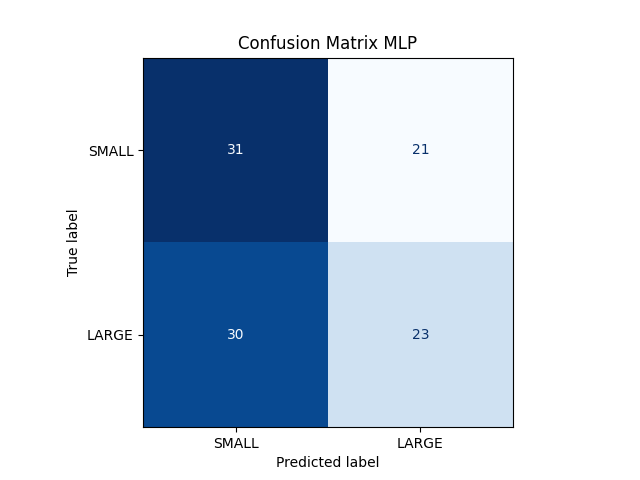
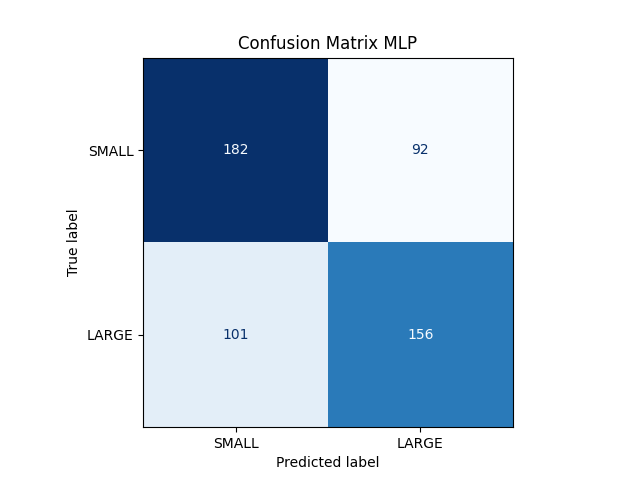
update

Changed region(s): [[0.2188, 0.5, 0.8125, 0.9062], [0.3438, 0.2812, 0.375, 0.3438]]

diff --git a/SW/size/test_accu.py b/SW/size/test_accu.py
@@ -15,14 +15,16 @@ def test_model():
 
     # Data parameters
     input_period = 42
-    input_period_weeks =10
+    input_period_reg = 10
     training_window = 10
 
     # Process data
-    X, X_reg, y, y_reg = get_processed_data(features, target_prices, input_period, input_period_weeks, training_window)
+    X, X_reg, y, y_reg = get_processed_data(features, target_prices, input_period, input_period_reg, training_window)
 
-    train_indices, test_indices, _, _ = train_test_split(range(len(y)), y, test_size=0.2, shuffle=False, random_state=1)
+    train_indices, test_indices, _, _ = train_test_split(range(len(y)), y, test_size=0.3, shuffle=False, random_state=1)
     X_train, X_train_reg, y_train, y_train_reg, X_test, X_test_reg, y_test = X[train_indices], X_reg[train_indices], y[train_indices], y_reg[train_indices], X[test_indices], X_reg[test_indices], y[test_indices]
+    print('Number of train sample', len(X_train))
+    print('Number of test sample', len(X_test))
 
     X_mean = X_train.mean(dim=[0, 1], keepdim=True)
     X_std = X_train.std(dim=[0, 1], keepdim=True)
@@ -41,13 +43,12 @@ def test_model():
     class_count_test = np.unique(y_test.cpu(), axis=0, return_counts=True)[1]
     weights_train = torch.tensor(class_count_train / sum(class_count_train))
     weights_test = torch.tensor(class_count_test / sum(class_count_test))
-
-    print('Allocation of best returns', weights_train.cpu().numpy())
-    print('Allocation of best returns', weights_test.cpu().numpy())
+    print('Allocation of best returns in train set :', weights_train.cpu().numpy())
+    print('Allocation of best returns in test set :', weights_test.cpu().numpy())
 
     device = torch.device("cuda" if torch.cuda.is_available() else "cpu")
-    print('Number of train sample', len(X_train))
-    print('Number of test sample', len(X_test))
+    print('Device available :', device)
+    
     X_train = X_train.to(device)
     X_train_reg = X_train_reg.to(device)
     y_train = y_train.to(device)
@@ -55,15 +56,12 @@ def test_model():
     X_test = X_test.to(device)
     y_test = y_test.to(device)
 
-    eta_mlp = 1e-3
-    eta_convnet = 1e-4
-    eta_lstm = 1e-3
-    eta_lstm_siam = 5e-4
-
-    weight_decay = 5e-5
-    dropout = 0.1
-    batch_size = 50
+    eta = 5e-4
+    weight_decay = 1e-5
+    dropout = 0.2
+    batch_size = 30
     gamma = 0.3
+    print(f'parameters of ML model : \n learning_rate = {eta}, weight_decay = {weight_decay}, dropout = {dropout}, batch_size = {batch_size}, gamma = {gamma}')
 
     nb_epochs = 100
 
@@ -75,19 +73,15 @@ def test_model():
     dim1, dim2 = X.size(1), X.size(2)
 
     if model_name == 'MLP':
-        eta = eta_mlp
         model = MLP(dim1, dim2, pdrop=dropout)
 
     elif model_name == 'ConvNet':
-        eta = eta_convnet
         model = ConvNet(dim1, dim2, pdrop=dropout)
 
     elif model_name == 'LSTM':
-        eta = eta_lstm
         model = LSTM(input_size=dim2, output_size=y.size(1), device=device, pdrop=dropout)
 
     elif model_name == 'SiameseLSTM':
-        eta = eta_lstm_siam
         model = SiameseLSTM(input_size=dim2, output_size=X_reg.size(2), device=device, pdrop=dropout)
 
     model.to(device)
@@ -98,7 +92,7 @@ def test_model():
             weight_decay=weight_decay, verbose=verbose, gamma=gamma)
     else:
         train(model, X_train, y_train, nb_epochs=nb_epochs, device=device, X_test=X_test, y_test=y_test, batch_size=batch_size, eta=eta, 
-            weight_decay=weight_decay, verbose=verbose, classification=True)
+            weight_decay=weight_decay, verbose=verbose)
 
     if siamese:
         print(f'Accuracy on train set : {output_to_accu_siamese(model, X_train, X_train_reg, y_train):.2f} %')
@@ -108,7 +102,6 @@ def test_model():
         print(f'Accuracy on train set : {output_to_accu(model, X_train, y_train):.2f} %')
         print(f'Accuracy on test set : {output_to_accu(model, X_test, y_test):.2f} %')
         plot_cm(model, X_test, y_test, target_prices)
-
 
 if __name__ == "__main__":
     test_model()

diff --git a/SW/size/train_test.py b/SW/size/train_test.py
@@ -48,14 +48,12 @@ def output_to_loss(model, X, y):
     return (loss / X.size(0)).cpu()
 
 
-def train(model, X_train, y_train, nb_epochs, device, X_test=None, y_test=None, i=None, eta=1e-3, weight_decay=0, batch_size=1, verbose=0, classification=True):
+def train(model, X_train, y_train, nb_epochs, device, X_test=None, y_test=None, i=None, eta=1e-3, weight_decay=0, batch_size=1, verbose=0):
     
     optimizer = torch.optim.Adam(model.parameters(), lr=eta, weight_decay=weight_decay)
-    if classification:
-        criterion = nn.BCELoss(reduction='none')
-    else:
-        criterion = nn.MSELoss()
-    
+
+    criterion = nn.BCELoss(reduction='none')
+
     model.train()
     
     if verbose in (1, 2):
@@ -67,9 +65,8 @@ def train(model, X_train, y_train, nb_epochs, device, X_test=None, y_test=None, 
     train_set = TensorDataset(X_train, y_train)    
     train_loader = DataLoader(train_set, batch_size=batch_size, shuffle=True, drop_last=True, num_workers=0)
 
-    if classification:
-        class_count = np.unique(y_train.cpu(), axis=0, return_counts=True)[1]
-        weights = torch.tensor(class_count / sum(class_count)).to(device)
+    class_count = np.unique(y_train.cpu(), axis=0, return_counts=True)[1]
+    weights = torch.tensor(class_count / sum(class_count)).to(device)
 
     for e in (tqdm(range(nb_epochs)) if (verbose == 3) else range(nb_epochs)):
         acc_loss = 0
@@ -78,8 +75,8 @@ def train(model, X_train, y_train, nb_epochs, device, X_test=None, y_test=None, 
             optimizer.zero_grad()
             output, _ = model(train_input)
             loss = criterion(output, train_target)
-            if classification:
-                loss = (loss * weights).mean()
+
+            loss = (loss * weights).mean()
             loss.backward()
             clip_grad_norm_(model.parameters(), 1)
             optimizer.step()

diff --git a/SW/size/models.py b/SW/size/models.py
@@ -3,7 +3,7 @@ from torch import nn
 
 
 class MLP(nn.Module):
-    def __init__(self, dim1, dim2, pdrop=0.2, hidden_size1=20, hidden_size2=15, hidden_size3=10):
+    def __init__(self, dim1, dim2, pdrop=0.2, hidden_size1=20, hidden_size2=20, hidden_size3=20):
         super().__init__()
 
         self.fc1 = nn.Linear(dim1 * dim2, hidden_size1)
@@ -34,11 +34,11 @@ class ConvNet(nn.Module):
         self.dim1 = dim1
         self.dim2 = dim2
         
-        self.conv1 = nn.Conv2d(1, 32, kernel_size=(dim1_kernel1, dim2_kernel1))
-        self.conv2 = nn.Conv2d(32, 64, kernel_size=(dim1_kernel2, dim2_kernel2))
+        self.conv1 = nn.Conv2d(1, 5, kernel_size=(dim1_kernel1, dim2_kernel1))
+        self.conv2 = nn.Conv2d(5, 10, kernel_size=(dim1_kernel2, dim2_kernel2))
         self.pool = nn.MaxPool2d(kernel_size=2)
         
-        self.fc1 = nn.Linear(64 * (dim1 - dim1_kernel1 - dim1_kernel2 + 2) * (dim2 - dim2_kernel1 - dim2_kernel2 + 2), 10)
+        self.fc1 = nn.Linear(10 * (dim1 - dim1_kernel1 - dim1_kernel2 + 2) * (dim2 - dim2_kernel1 - dim2_kernel2 + 2), 10)
         self.fc2 = nn.Linear(10, 2)
         
         self.relu = nn.ReLU()
@@ -46,8 +46,8 @@ class ConvNet(nn.Module):
 
         self.drop = nn.Dropout(pdrop)
         self.drop2d = nn.Dropout2d(pdrop)
-        self.bn2d1 = nn.BatchNorm2d(32)
-        self.bn2d2 = nn.BatchNorm2d(64)
+        self.bn2d1 = nn.BatchNorm2d(5)
+        self.bn2d2 = nn.BatchNorm2d(10)
 
     def forward(self, x):
         
@@ -64,7 +64,7 @@ class ConvNet(nn.Module):
     
 class LSTM(nn.Module):
 
-    def __init__(self, input_size, output_size, device, hidden_size=20, num_layers=2, pdrop=0.1):
+    def __init__(self, input_size, output_size, device, hidden_size=50, num_layers=2, pdrop=0.1):
         super(LSTM, self).__init__()
         
         self.input_size = input_size

diff --git a/SW/size/data.py b/SW/size/data.py
@@ -92,7 +92,7 @@ def get_data():
     return bench_price, target_prices, features, features_stationary
 
 
-def get_processed_data(features, target_prices, input_period, input_period_weeks, training_window):
+def get_processed_data(features, target_prices, input_period, input_period_reg, training_window):
 
 
     last_date_train = last_friday(target_prices.index[-input_period])
@@ -113,14 +113,14 @@ def get_processed_data(features, target_prices, input_period, input_period_weeks
     start_date_input = target_prices.loc[:start_date].iloc[-252:].index[0]
     
     df_input = features.loc[start_date_input:df_output.index[-1]]
-    df_input_reg = target_prices.resample('W-FRI').apply(lambda x: np.log(x[-1] / x[0]) / len(x)).loc[start_date_input:df_output.index[-1]]
+    df_input_reg = target_prices.rolling(5).apply(lambda x: np.log(x[-1] / x[0]) / len(x)).loc[start_date_input:df_output.index[-1]]
 
     X = []
     X_reg = []
     for idx in df_output.index:
 
         df_input_period = df_input.loc[:idx].iloc[-input_period:]
-        df_input_period_reg = df_input_reg.loc[:idx].iloc[-input_period_weeks:]
+        df_input_period_reg = df_input_reg.loc[:idx].iloc[-input_period_reg:]
         X_period = df_input_period.values.reshape(input_period, num_features)
         X_period_reg = df_input_period_reg.values
         X.append(X_period)

diff --git a/SW/size/helpers.py b/SW/size/helpers.py
@@ -12,6 +12,7 @@ from sklearn.metrics import ConfusionMatrixDisplay
 def count_parameters(model): 
     return sum(p.numel() for p in model.parameters() if p.requires_grad)
 
+
 def plot_cm(model, X_test, y_test, price):
     model.eval()
     output = test(model, X_test)
